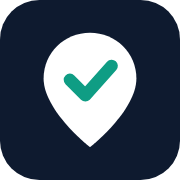
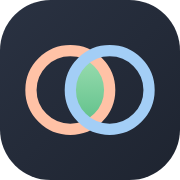
New Trialist mark: a trial and a practice's patients as two rings, the match where they overlap; Recommended keeps its sparkles

diff --git a/site/src/components/ui/TrialistLogo.tsx b/site/src/components/ui/TrialistLogo.tsx
@@ -1,10 +1,43 @@
+import { useId } from 'react';
 import { cn } from '@/lib/utils/cn';
 
-/** Trialist logo: pin + wordmark, outlined from Geist SemiBold (source: images/trialist/). Ink follows text color. */
+/**
+ * The Trialist mark: two rings for a trial and a practice's patients, with their overlap, the
+ * match, in green. Ink tile like the app's buttons; ring colors from the area palette.
+ */
+export function TrialistMark({ className }: { className?: string }) {
+  const id = useId();
+  return (
+    <svg viewBox="0 0 32 32" aria-hidden className={cn('shrink-0', className)}>
+      <defs>
+        <linearGradient id={`${id}tile`} x1="0" y1="0" x2="1" y2="1">
+          <stop offset="0" stopColor="#2A3242" />
+          <stop offset="1" stopColor="#1E2430" />
+        </linearGradient>
+        <linearGradient id={`${id}match`} x1="0" y1="0" x2="0" y2="1">
+          <stop offset="0" stopColor="#9BDDB0" />
+          <stop offset="1" stopColor="#5FC08A" />
+        </linearGradient>
+      </defs>
+      <rect width="32" height="32" rx="9" fill={`url(#${id}tile)`} />
+      <path d="M16 9.94A7 7 0 0116 22.06 7 7 0 0116 9.94z" fill={`url(#${id}match)`} />
+      <circle cx="12.5" cy="16" r="7" fill="none" stroke="#FFC2A6" strokeWidth={2} />
+      <circle cx="19.5" cy="16" r="7" fill="none" stroke="#A3CEF6" strokeWidth={2} />
+    </svg>
+  );
+}
+
+/** Trialist logo: the mark + wordmark outlined from Geist SemiBold (source: images/trialist/). Ink follows text color. */
 export function TrialistLogo({ className }: { className?: string }) {
   return (
-    <svg viewBox="-71.0 -857.8 4310.7 1207.0" role="img" aria-label="Trialist" className={cn('h-6 w-auto shrink-0 select-none', className)}>
-      <g transform="translate(0 -786.8) scale(14.3919)"><path d="M30 0C13.4 0 0 13 0 29.6 0 50.5 30 74 30 74S60 50.5 60 29.6C60 13 46.6 0 30 0Z" fill="currentColor"/><path d="M17 30.5 27 40.5 44 21.5" fill="none" stroke="#0F9D84" strokeWidth="7" strokeLinecap="round" strokeLinejoin="round"/></g><path transform="translate(1161.7 0)" d="M284 0Q204 0 166.5 -37.0Q129 -74 129 -153V-659H257V-165Q257 -128 273.0 -113.5Q289 -99 323 -99H398V0ZM45 -435V-534H398V-435ZM482 0V-534H602L607 -386L596 -388Q608 -465 641.5 -499.5Q675 -534 733 -534H782V-424H732Q691 -424 664.0 -412.0Q637 -400 623.5 -374.5Q610 -349 610 -308V0ZM845 0V-534H973V0ZM843 -605V-719H976V-605ZM1239 12Q1155 12 1104.0 -26.5Q1053 -65 1053 -134Q1053 -203 1096.0 -242.0Q1139 -281 1227 -298L1404 -333Q1404 -390 1378.0 -418.5Q1352 -447 1301 -447Q1255 -447 1228.5 -425.5Q1202 -404 1192 -364L1062 -370Q1078 -455 1140.0 -500.5Q1202 -546 1301 -546Q1415 -546 1473.5 -488.5Q1532 -431 1532 -324V-130Q1532 -109 1539.5 -101.0Q1547 -93 1562 -93H1579V0Q1573 2 1559.5 3.0Q1546 4 1532 4Q1499 4 1473.0 -6.5Q1447 -17 1433.0 -43.5Q1419 -70 1419 -116L1430 -108Q1422 -73 1395.5 -45.5Q1369 -18 1329.0 -3.0Q1289 12 1239 12ZM1265 -81Q1308 -81 1339.0 -98.0Q1370 -115 1387.0 -145.0Q1404 -175 1404 -216V-246L1266 -218Q1223 -209 1204.5 -191.5Q1186 -174 1186 -146Q1186 -115 1206.5 -98.0Q1227 -81 1265 -81ZM1762 0Q1704 0 1669.0 -30.0Q1634 -60 1634 -126V-710H1762V-139Q1762 -119 1772.5 -109.0Q1783 -99 1802 -99H1841V0ZM1903 0V-534H2031V0ZM1901 -605V-719H2034V-605ZM2359 12Q2280 12 2226.5 -11.0Q2173 -34 2144.0 -75.0Q2115 -116 2111 -168L2242 -174Q2249 -132 2277.0 -109.0Q2305 -86 2360 -86Q2405 -86 2430.5 -100.5Q2456 -115 2456 -146Q2456 -164 2447.0 -176.0Q2438 -188 2413.0 -197.0Q2388 -206 2339 -215Q2257 -229 2210.0 -249.5Q2163 -270 2143.5 -301.0Q2124 -332 2124 -378Q2124 -453 2181.5 -499.5Q2239 -546 2350 -546Q2422 -546 2471.0 -522.5Q2520 -499 2547.5 -458.5Q2575 -418 2582 -366L2453 -360Q2448 -387 2435.0 -407.0Q2422 -427 2400.0 -437.5Q2378 -448 2348 -448Q2303 -448 2280.0 -430.0Q2257 -412 2257 -382Q2257 -361 2267.5 -347.0Q2278 -333 2302.0 -324.5Q2326 -316 2366 -309Q2450 -296 2498.5 -275.5Q2547 -255 2567.5 -223.5Q2588 -192 2588 -148Q2588 -97 2559.5 -61.0Q2531 -25 2479.5 -6.5Q2428 12 2359 12ZM2864 0Q2784 0 2746.5 -37.0Q2709 -74 2709 -153V-659H2837V-165Q2837 -128 2853.0 -113.5Q2869 -99 2903 -99H2978V0ZM2625 -435V-534H2978V-435Z" fill="currentColor"/>
-    </svg>
+    <span role="img" aria-label="Trialist" className={cn('inline-flex select-none items-center gap-2', className)}>
+      <TrialistMark className="size-[22px]" />
+      <svg viewBox="45 -730 2945 752" aria-hidden className="h-[15px] w-auto shrink-0">
+        <path
+          d="M284 0Q204 0 166.5 -37.0Q129 -74 129 -153V-659H257V-165Q257 -128 273.0 -113.5Q289 -99 323 -99H398V0ZM45 -435V-534H398V-435ZM482 0V-534H602L607 -386L596 -388Q608 -465 641.5 -499.5Q675 -534 733 -534H782V-424H732Q691 -424 664.0 -412.0Q637 -400 623.5 -374.5Q610 -349 610 -308V0ZM845 0V-534H973V0ZM843 -605V-719H976V-605ZM1239 12Q1155 12 1104.0 -26.5Q1053 -65 1053 -134Q1053 -203 1096.0 -242.0Q1139 -281 1227 -298L1404 -333Q1404 -390 1378.0 -418.5Q1352 -447 1301 -447Q1255 -447 1228.5 -425.5Q1202 -404 1192 -364L1062 -370Q1078 -455 1140.0 -500.5Q1202 -546 1301 -546Q1415 -546 1473.5 -488.5Q1532 -431 1532 -324V-130Q1532 -109 1539.5 -101.0Q1547 -93 1562 -93H1579V0Q1573 2 1559.5 3.0Q1546 4 1532 4Q1499 4 1473.0 -6.5Q1447 -17 1433.0 -43.5Q1419 -70 1419 -116L1430 -108Q1422 -73 1395.5 -45.5Q1369 -18 1329.0 -3.0Q1289 12 1239 12ZM1265 -81Q1308 -81 1339.0 -98.0Q1370 -115 1387.0 -145.0Q1404 -175 1404 -216V-246L1266 -218Q1223 -209 1204.5 -191.5Q1186 -174 1186 -146Q1186 -115 1206.5 -98.0Q1227 -81 1265 -81ZM1762 0Q1704 0 1669.0 -30.0Q1634 -60 1634 -126V-710H1762V-139Q1762 -119 1772.5 -109.0Q1783 -99 1802 -99H1841V0ZM1903 0V-534H2031V0ZM1901 -605V-719H2034V-605ZM2359 12Q2280 12 2226.5 -11.0Q2173 -34 2144.0 -75.0Q2115 -116 2111 -168L2242 -174Q2249 -132 2277.0 -109.0Q2305 -86 2360 -86Q2405 -86 2430.5 -100.5Q2456 -115 2456 -146Q2456 -164 2447.0 -176.0Q2438 -188 2413.0 -197.0Q2388 -206 2339 -215Q2257 -229 2210.0 -249.5Q2163 -270 2143.5 -301.0Q2124 -332 2124 -378Q2124 -453 2181.5 -499.5Q2239 -546 2350 -546Q2422 -546 2471.0 -522.5Q2520 -499 2547.5 -458.5Q2575 -418 2582 -366L2453 -360Q2448 -387 2435.0 -407.0Q2422 -427 2400.0 -437.5Q2378 -448 2348 -448Q2303 -448 2280.0 -430.0Q2257 -412 2257 -382Q2257 -361 2267.5 -347.0Q2278 -333 2302.0 -324.5Q2326 -316 2366 -309Q2450 -296 2498.5 -275.5Q2547 -255 2567.5 -223.5Q2588 -192 2588 -148Q2588 -97 2559.5 -61.0Q2531 -25 2479.5 -6.5Q2428 12 2359 12ZM2864 0Q2784 0 2746.5 -37.0Q2709 -74 2709 -153V-659H2837V-165Q2837 -128 2853.0 -113.5Q2869 -99 2903 -99H2978V0ZM2625 -435V-534H2978V-435Z"
+          fill="currentColor"
+        />
+      </svg>
+    </span>
   );
 }

diff --git a/site/src/components/ui/AppShell.tsx b/site/src/components/ui/AppShell.tsx
@@ -31,10 +31,8 @@ const NAV: { key: NavKey; label: string; href: string; icon: ReactNode }[] = [
     href: '/trials',
     icon: (
       <svg {...ICON_PROPS}>
-        {/* A trial protocol your patients fit: a clipboard with a check. */}
-        <path d="M15 4.5h1.5A2.5 2.5 0 0119 7v11.5a2.5 2.5 0 01-2.5 2.5h-9A2.5 2.5 0 015 18.5V7a2.5 2.5 0 012.5-2.5H9" />
-        <rect x="9" y="3" width="6" height="3.5" rx="1.2" />
-        <path d="M9 13.5l2.2 2.2L15.5 11" />
+        <path d="M12 3l1.9 4.6L18.5 9.5l-4.6 1.9L12 16l-1.9-4.6L5.5 9.5l4.6-1.9z" />
+        <path d="M18 15l.8 1.9 1.9.8-1.9.8L18 20.4l-.8-1.9-1.9-.8 1.9-.8z" />
       </svg>
     ),
   },
